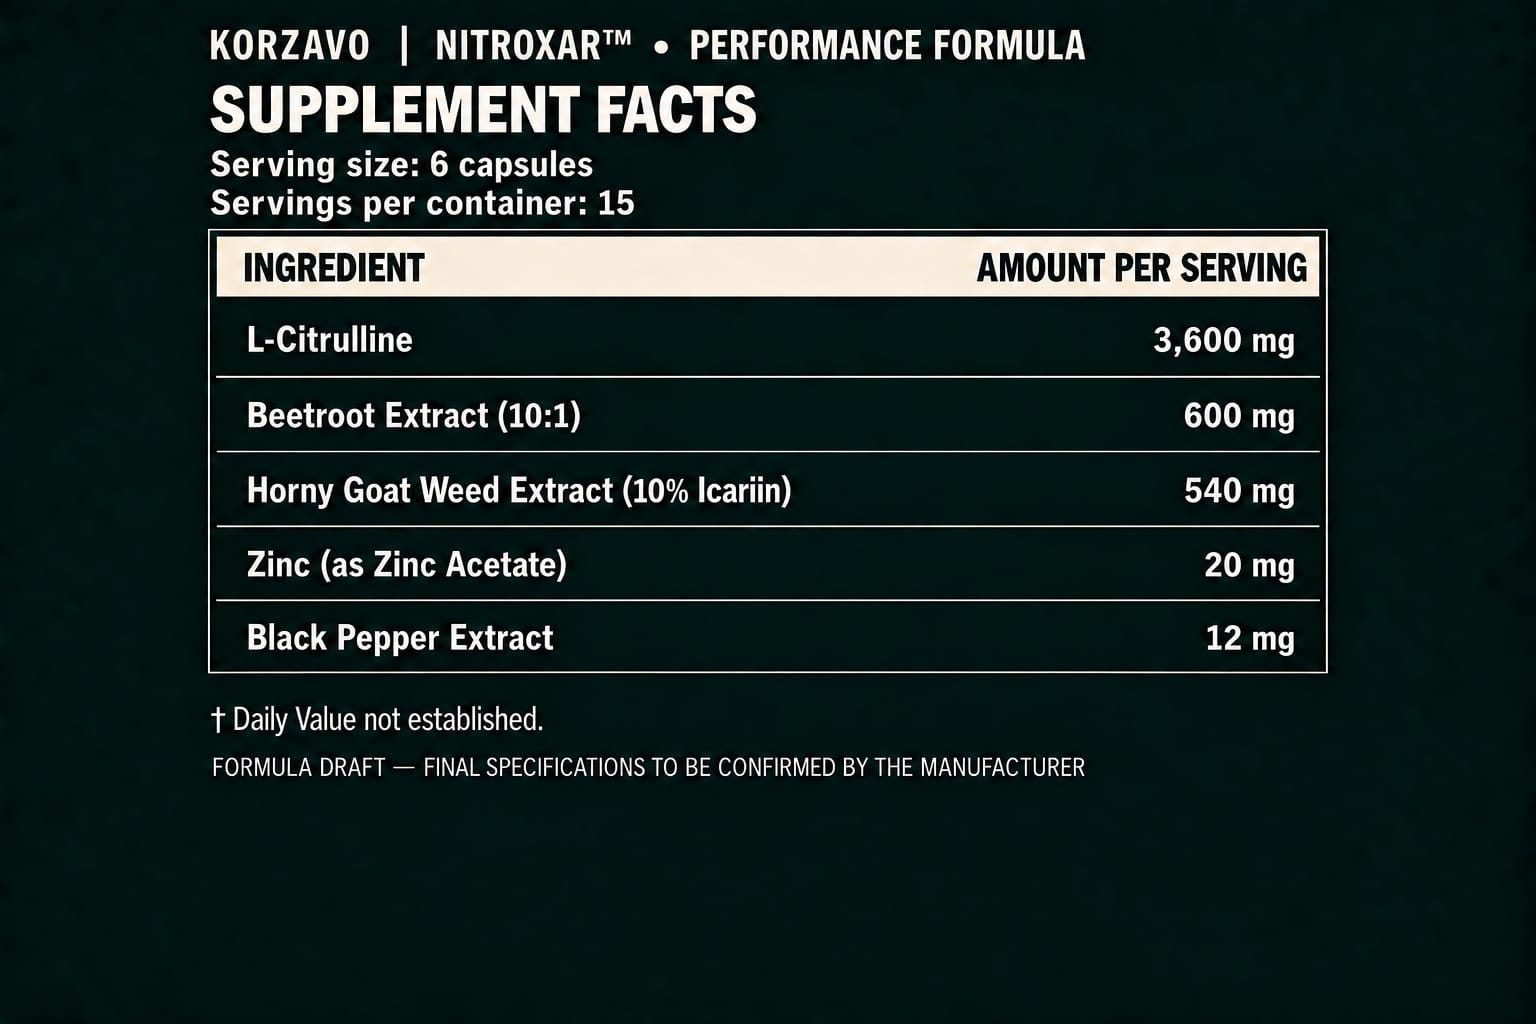
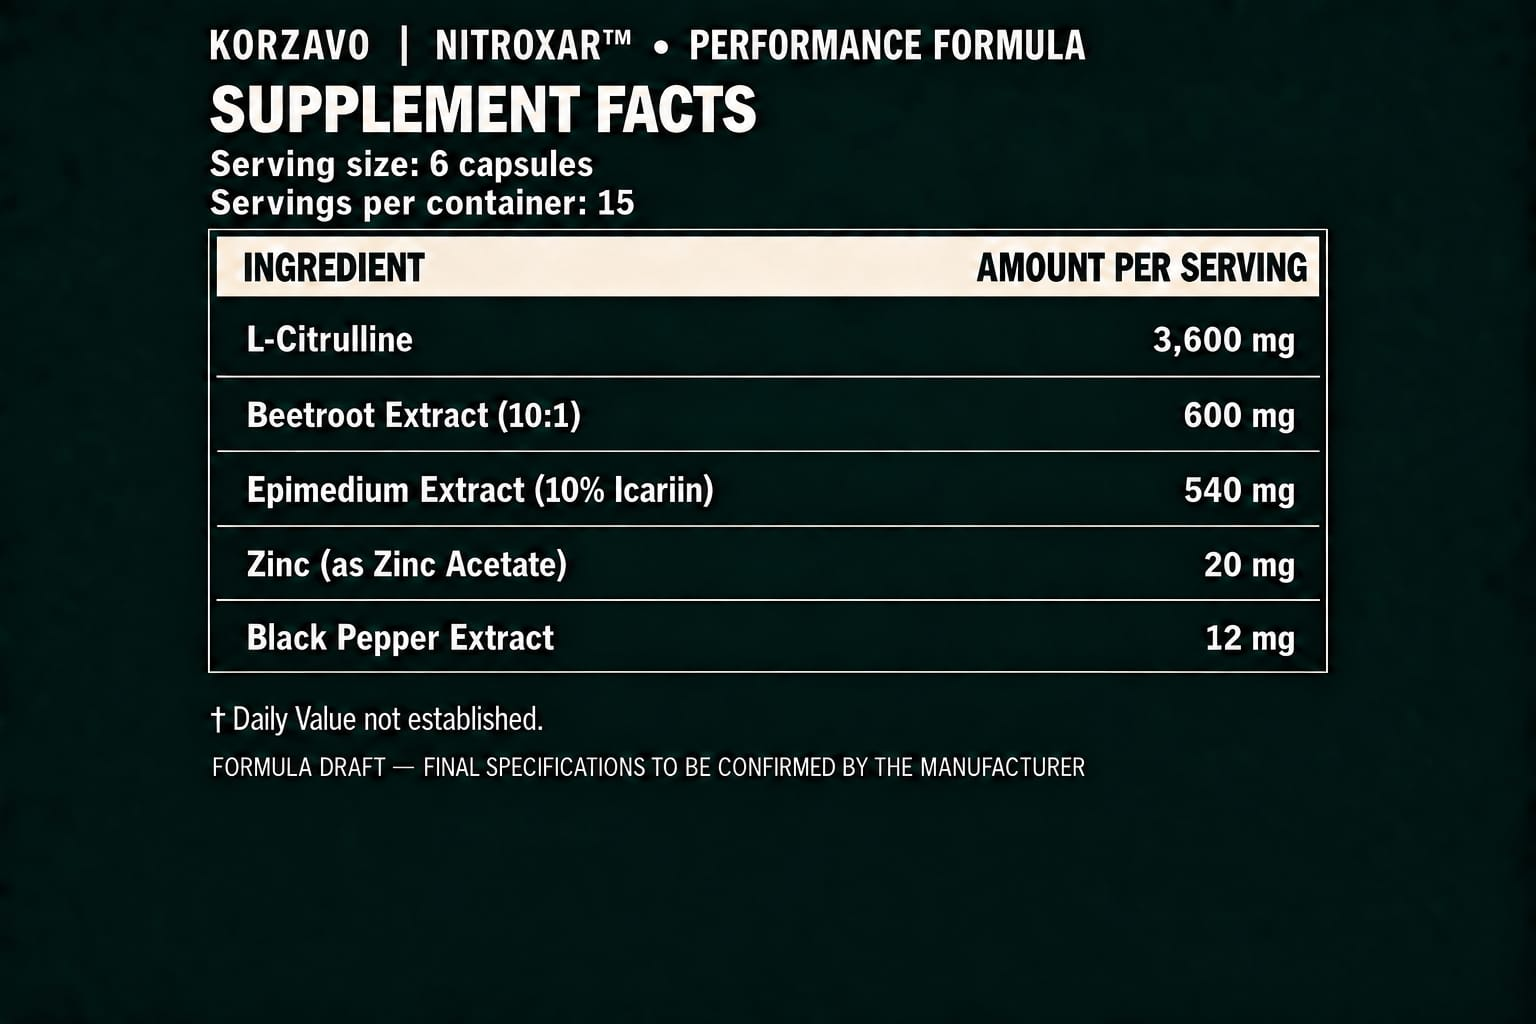
Update stack image and rework Nitroxar product content and images

diff --git a/src/lib/productData.js b/src/lib/productData.js
@@ -19,6 +19,8 @@ import nightRecoveryFacts from "@/assets/products/korzavo-night-recovery-facts.j
 // Shape reference (every field used somewhere in the UI):
 // {
 //   id, slug, name, tagline, description,
+//   long_description?: string[]  (extra paragraphs shown below the Add to Cart button),
+//   closing_line?: string        (sign-off line shown after Key Benefits),
 //   category: "supplement" | "stack",
 //   image, supplement_facts_image?,
 //   inStock: boolean,
@@ -171,25 +173,39 @@ export const PRODUCTS = [
     inStock: true,
     slug: "nitroxar",
     name: "NITROXAR",
-    tagline: "Men's Blood Flow & Performance",
+    tagline: "Blood Flow. Endurance. Performance.",
+    // `description` is the short intro (also used for SEO / structured data).
+    // `long_description` paragraphs and `closing_line` render further down the
+    // product page, after the price and Add to Cart button.
     description:
-      "A high-strength men's performance formula developed to support healthy circulation, physical drive and everyday stamina — fully disclosed, no proprietary blends.",
+      "NITROXAR™ is a performance formula designed for both men and women to support healthy circulation, endurance, training performance, vitality, and sexual wellbeing.",
+    long_description: [
+      "With L-Citrulline and Beetroot Extract, the formula supports nitric oxide production and healthy blood flow, helping deliver oxygen and nutrients to working muscles during exercise. This can support stronger muscle pumps, improved vascularity, sustained training performance, and a fuller, more defined look during workouts.",
+      "Epimedium Extract has traditionally been used to support vitality, circulation, and sexual wellbeing, while Zinc contributes to normal reproductive health and overall wellbeing.",
+      "By supporting circulation and exercise performance, NITROXAR™ is designed to help you train with greater intensity, maintain endurance across demanding sessions, and support efficient recovery between workouts.",
+    ],
+    closing_line: "PERFORM STRONGER. FEEL STRONGER. EVERYWHERE.",
     category: "supplement",
     image: alphaNitroxar,
     supplement_facts_image: nitroxarFacts,
     price: 79,
     benefits: [
-      "Supports healthy blood flow and circulation",
-      "Supports physical performance and stamina",
-      "Supports male vitality and drive",
-      "Supports normal testosterone levels through zinc",
-      "Fully disclosed formula with clearly stated dosages",
+      "Blood Flow",
+      "Oxygen & Nutrient Delivery",
+      "Muscle Pump",
+      "Vascularity",
+      "Endurance",
+      "Training Performance",
+      "Recovery",
+      "Vitality",
+      "Sexual Wellbeing",
     ],
+    // Names and doses match the Supplement Facts image.
     ingredients: [
       "L-Citrulline — 3600mg",
-      "Beetroot Extract — 600mg",
-      "Horny Goat Weed Extract — 540mg",
-      "Zinc — 20mg",
+      "Beetroot Extract (10:1) — 600mg",
+      "Epimedium Extract (10% Icariin) — 540mg",
+      "Zinc (as Zinc Acetate) — 20mg",
       "Black Pepper Extract — 12mg",
     ],
     servings: "15 servings",

diff --git a/src/pages/ProductDetail.jsx b/src/pages/ProductDetail.jsx
@@ -145,6 +145,15 @@ export default function ProductDetail() {
               </button>
             )}
 
+            {/* LONG DESCRIPTION (optional extra paragraphs) */}
+            {product.long_description?.length > 0 && (
+              <div className="space-y-4">
+                {product.long_description.map((para, i) => (
+                  <p key={i} className="text-av-alloy/70 leading-relaxed">{para}</p>
+                ))}
+              </div>
+            )}
+
             {/* KEY BENEFITS */}
             {product.benefits?.length > 0 && (
               <div>
@@ -158,6 +167,13 @@ export default function ProductDetail() {
                   ))}
                 </ul>
               </div>
+            )}
+
+            {/* CLOSING LINE (optional sign-off) */}
+            {product.closing_line && (
+              <p className="font-display text-sm md:text-base font-bold uppercase tracking-[0.2em] text-av-gold">
+                {product.closing_line}
+              </p>
             )}
 
             {/* SPECS */}

diff --git a/src/lib/ingredientResearch.js b/src/lib/ingredientResearch.js
@@ -76,9 +76,9 @@ export const INGREDIENT_RESEARCH = {
     note: "Beetroot is a concentrated dietary source of nitrates, which are converted to nitric oxide in the body. This supports vasodilation, circulation and exercise performance, complementing citrulline's effects on the same pathway.",
     ref: "Jones, Sports Med. 2014 (dietary nitrate and exercise performance).",
   },
-  "horny goat weed extract": {
-    name: "Horny Goat Weed Extract",
-    note: "Horny Goat Weed (Epimedium) contains icariin, a flavonoid studied for its effects on nitric oxide signalling and its traditional use supporting male vitality, desire and energy.",
+  "epimedium extract": {
+    name: "Epimedium Extract",
+    note: "Epimedium (also known as horny goat weed) contains icariin, a flavonoid studied for its effects on nitric oxide signalling, and has traditionally been used to support vitality, circulation and sexual wellbeing.",
     ref: "Zhang & Yang, J Sex Med. 2006 (icariin and PDE5 activity).",
   },
   "zinc": {
